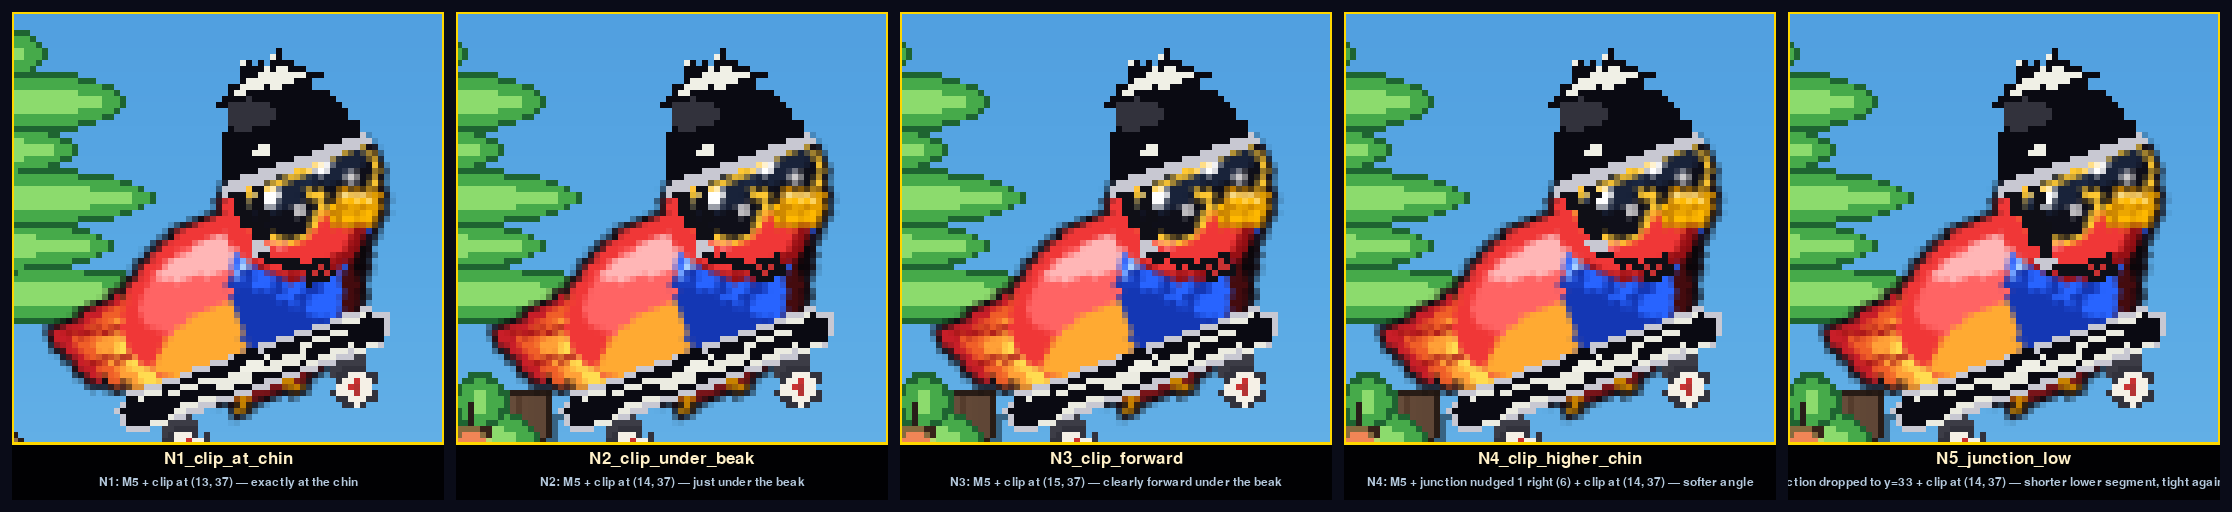
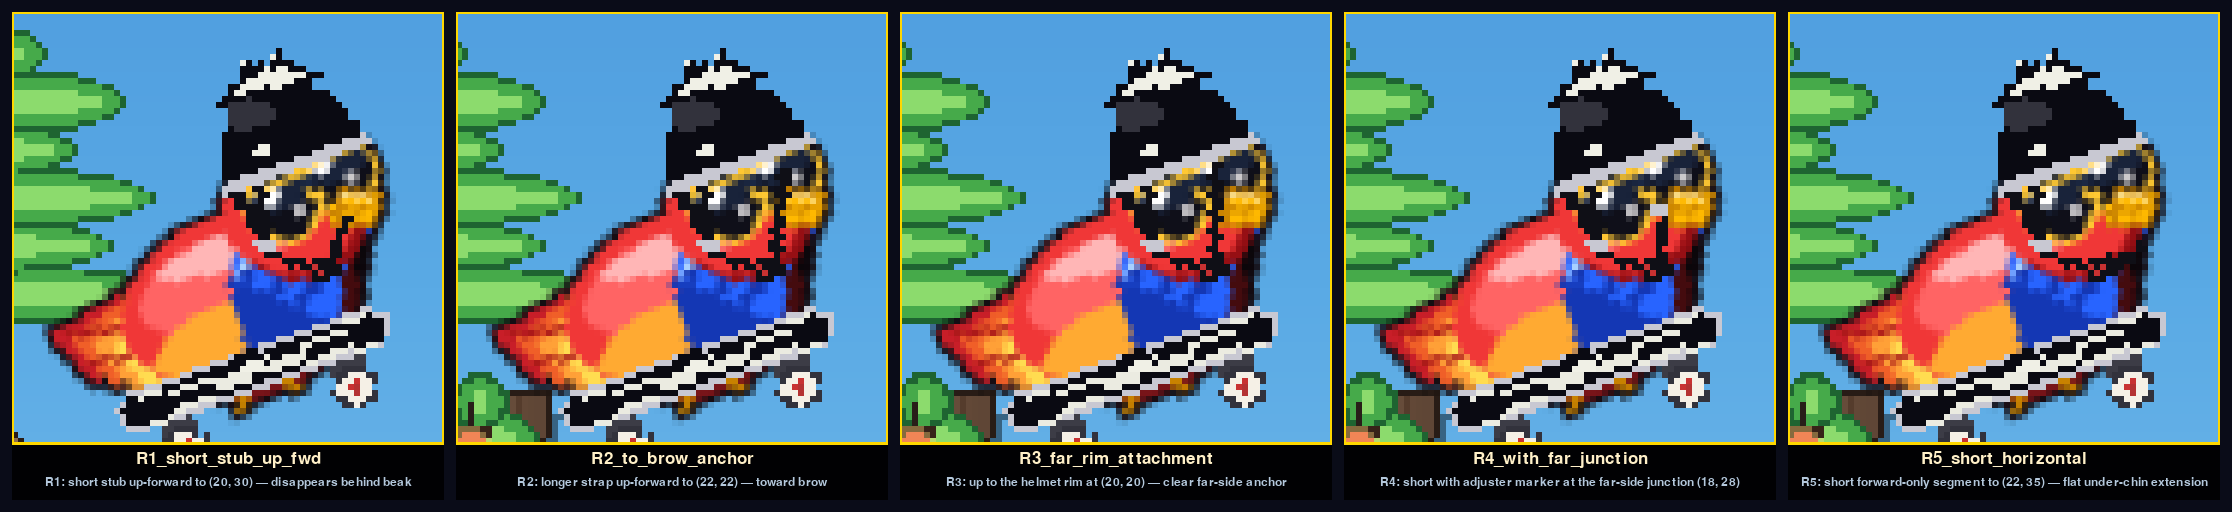
SKATEBOARD chinstrap: 5 R-variants adding the RIGHT chin strap
User asked to add the right-side chin strap that connects to the
left at the buckle (the way real helmets look). Researched online
— in cartoon side-view illustrations the far-side strap is drawn
from the buckle going up-and-forward toward the far helmet rim.

  R1 — short stub up-forward to (20, 30): disappears behind beak
  R2 — longer strap to (22, 22): toward brow
  R3 — up to the helmet rim at (20, 20): clear far-side anchor
  R4 — short with adjuster marker at (18, 28)
  R5 — short forward-only segment to (22, 35): under-chin extension

All keep N4's left strap verbatim (front=8, rear=4, junction=6,
clip=14).

https://claude.ai/code/session_01Ms85cBEeRiAtxZBCNh5vN5

diff --git a/tools/render_helmet_chinstrap_iterate.py b/tools/render_helmet_chinstrap_iterate.py
@@ -900,22 +900,54 @@ def _h4_variant_at(fa_x, ra_x, jx, cx, jy=30, cy=37):
     return fn
 
 
-# M5 baseline: (fa=8, ra=4, jx=5, cx=11). User wants the LOWER part
-# of the strap (V-junction → clip) closer to Pip's actual chin. The
-# upper anchors (front=8, rear=4) and V-junction (x=5, y=30) stay
-# on the left as in M5; the clip moves forward toward surface
-# (13-16, 36-37) which is Pip's chin/throat region.
+# R-series: add the RIGHT chin strap that connects to the LEFT one at
+# the buckle. The LEFT strap (N4) is kept verbatim — front anchor (8,
+# rim_y), rear anchor (4, rim_y), junction (6, 30), clip (14, 37).
+# The RIGHT strap is the new addition — it emerges from the buckle
+# and goes forward+up, representing the far-side strap as it would
+# appear in a 3/4 or oblique side view. Five candidate routings.
+
+def _r_variant(right_end, *, right_thick=2, has_junction_marker=False):
+    """N4 (left strap) + an additional right-side strap from the
+    chin clip going to `right_end` (surface coords). Optionally
+    draws a tiny junction marker at the right end too."""
+    def fn(bird, surf, scx, scy, flipped):
+        helm, hw, hh, pad, drop = _new_helm(bird.shrink_scale)
+        _paint_dome(helm, hw, hh, pad, bird.shrink_scale)
+        rim_y = pad + hh + 1
+        # LEFT strap = N4 verbatim.
+        _bhsi_chinstrap(
+            helm,
+            front_anchor=(8, rim_y),
+            rear_anchor=(4, rim_y),
+            junction=(6, 30),
+            clip_centre=(14, 37),
+            strap_w=2,
+            draw_adjuster=True,
+        )
+        # RIGHT strap — from the chin clip out to `right_end`.
+        STRAP = (15, 15, 22)
+        pygame.draw.line(helm, STRAP, (14, 37), right_end, right_thick)
+        if has_junction_marker:
+            jx, jy = right_end
+            adj = pygame.Rect(jx - 1, jy - 1, 3, 2)
+            pygame.draw.rect(helm, (30, 30, 40), adj)
+            pygame.draw.rect(helm, (200, 200, 210), adj, 1)
+        _anchor_and_blit(bird, surf, helm, scx, scy, flipped)
+    return fn
+
+
 CHINSTRAP_VARIANTS = [
-    ("N1_clip_at_chin",  _h4_variant_at(fa_x=8, ra_x=4, jx=5, cx=13),
-     "N1: M5 + clip at (13, 37) — exactly at the chin"),
-    ("N2_clip_under_beak", _h4_variant_at(fa_x=8, ra_x=4, jx=5, cx=14),
-     "N2: M5 + clip at (14, 37) — just under the beak"),
-    ("N3_clip_forward",  _h4_variant_at(fa_x=8, ra_x=4, jx=5, cx=15),
-     "N3: M5 + clip at (15, 37) — clearly forward under the beak"),
-    ("N4_clip_higher_chin", _h4_variant_at(fa_x=8, ra_x=4, jx=6, cx=14),
-     "N4: M5 + junction nudged 1 right (6) + clip at (14, 37) — softer angle"),
-    ("N5_junction_low",  _h4_variant_at(fa_x=8, ra_x=4, jx=6, cx=14, jy=33),
-     "N5: junction dropped to y=33 + clip at (14, 37) — shorter lower segment, tight against chin"),
+    ("R1_short_stub_up_fwd",   _r_variant(right_end=(20, 30)),
+     "R1: short stub up-forward to (20, 30) — disappears behind beak"),
+    ("R2_to_brow_anchor",      _r_variant(right_end=(22, 22)),
+     "R2: longer strap up-forward to (22, 22) — toward brow"),
+    ("R3_far_rim_attachment",  _r_variant(right_end=(20, 20)),
+     "R3: up to the helmet rim at (20, 20) — clear far-side anchor"),
+    ("R4_with_far_junction",   _r_variant(right_end=(18, 28), has_junction_marker=True),
+     "R4: short with adjuster marker at the far-side junction (18, 28)"),
+    ("R5_short_horizontal",    _r_variant(right_end=(22, 35)),
+     "R5: short forward-only segment to (22, 35) — flat under-chin extension"),
 ]
 
 
